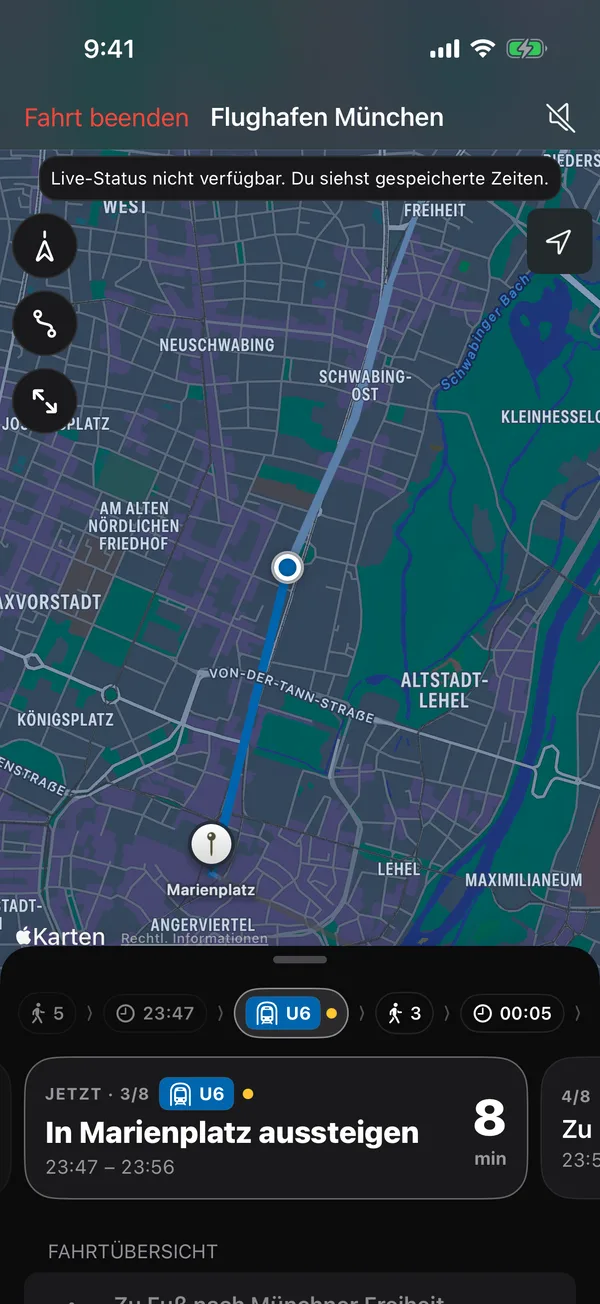
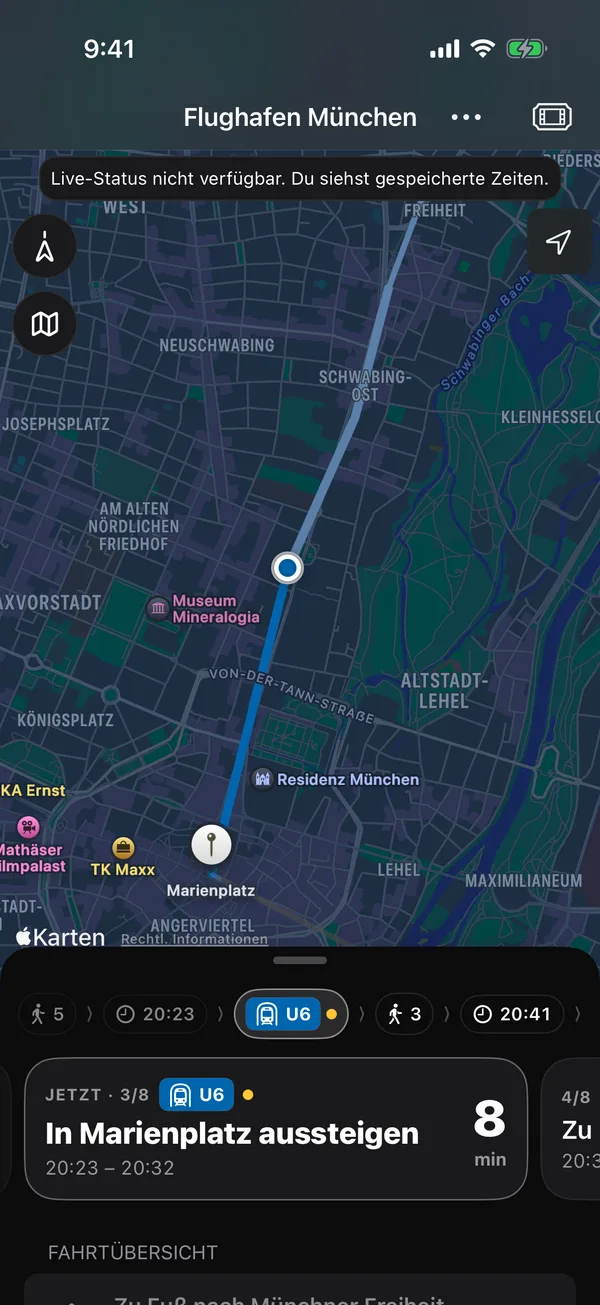
Fresh app screenshots (build 56), map search point

diff --git a/site.js b/site.js
@@ -13,7 +13,7 @@ const EN = {
   fact1:'No ads', fact2:'No account', fact3:'No tracking',
   tabNearby:'Nearby', tabPlan:'Plan', tabRoute:'Route', tabLive:'On the way',
   f1Title:'What leaves next?', f1Text:'Open Publit and see the next departures around you: line, direction, platform and the minutes until it leaves. Live times and delays right beside them.',
-  f1a:'Tap a station, route there with one tap', f1b:'Filter by metro, tram, bus, ferry', f1c:'When the stop is far, the walking time is shown',
+  f1a:'Tap a station, route there with one tap', f1b:'Filter by metro, tram, bus, ferry', f1c:'When the stop is far, the walking time is shown', f1d:'Find cafés, pharmacies or supermarkets nearby on the map',
   f2Title:'Every route on one timeline.', f2Text:'Publit puts every connection on the same time axis, so you see at a glance which one arrives first, where you change and where it gets tight.',
   f2a:'Tight changes are marked', f2b:'Compare all routes on one map', f2c:'Walking, cycling and driving to compare',
   f3Title:'Know when to leave.', f3Text:'Every route says at the top when to leave and when you arrive. Below are the map and every step in the colours of the lines, with platforms, stops and delays.',

diff --git a/index.html b/index.html
@@ -85,6 +85,7 @@
       <li data-t="f1a">Stationen antippen, Route hin mit einem Tipp</li>
       <li data-t="f1b">Filter nach U-Bahn, Tram, Bus, Fähre</li>
       <li data-t="f1c">Ist die Haltestelle weit weg, steht die Gehzeit dabei</li>
+      <li data-t="f1d">Auf der Karte Cafés, Apotheken oder Supermärkte in der Nähe finden</li>
     </ul>
   </div>
   <div class="feature-shot reveal"><div class="phone" data-theme-swap>
